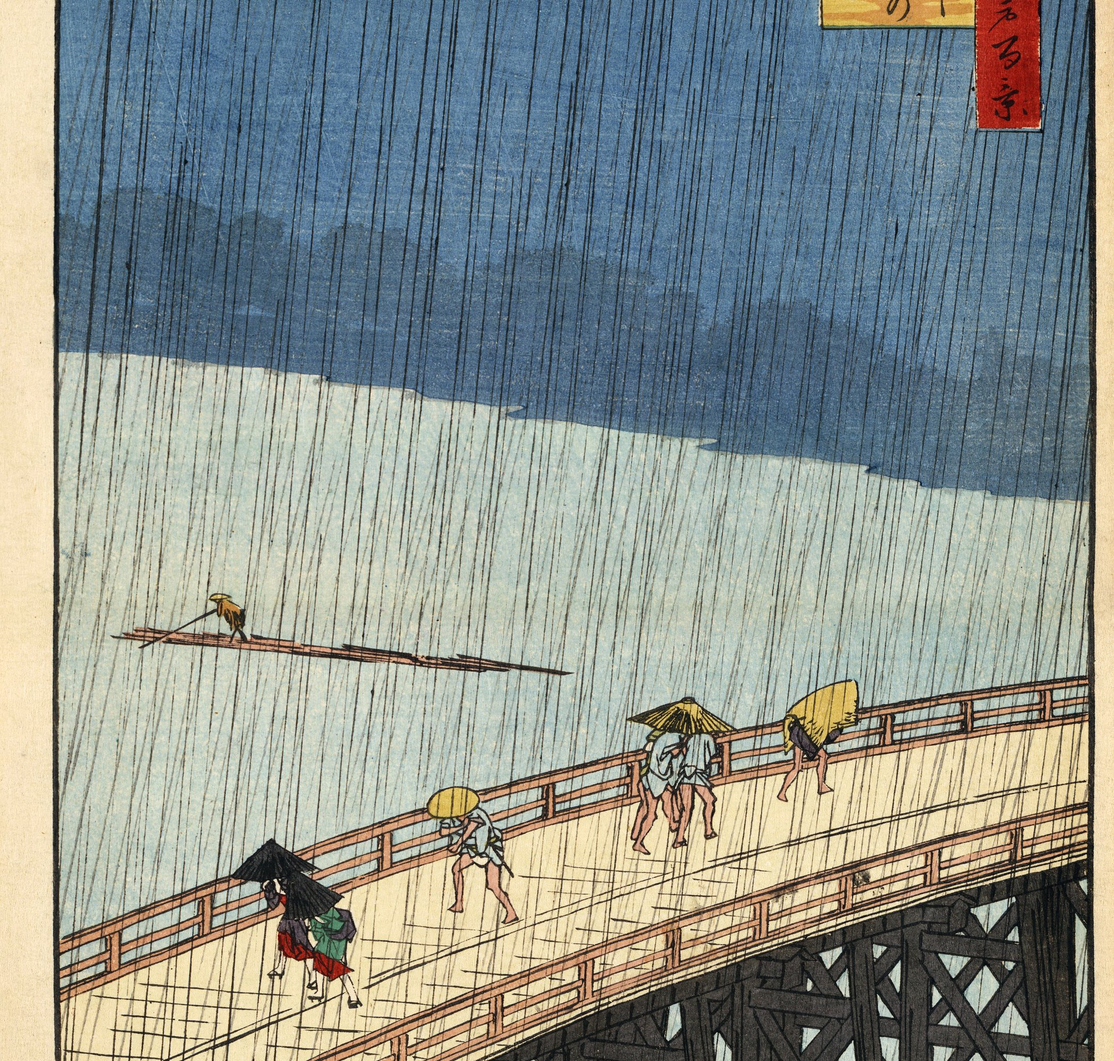
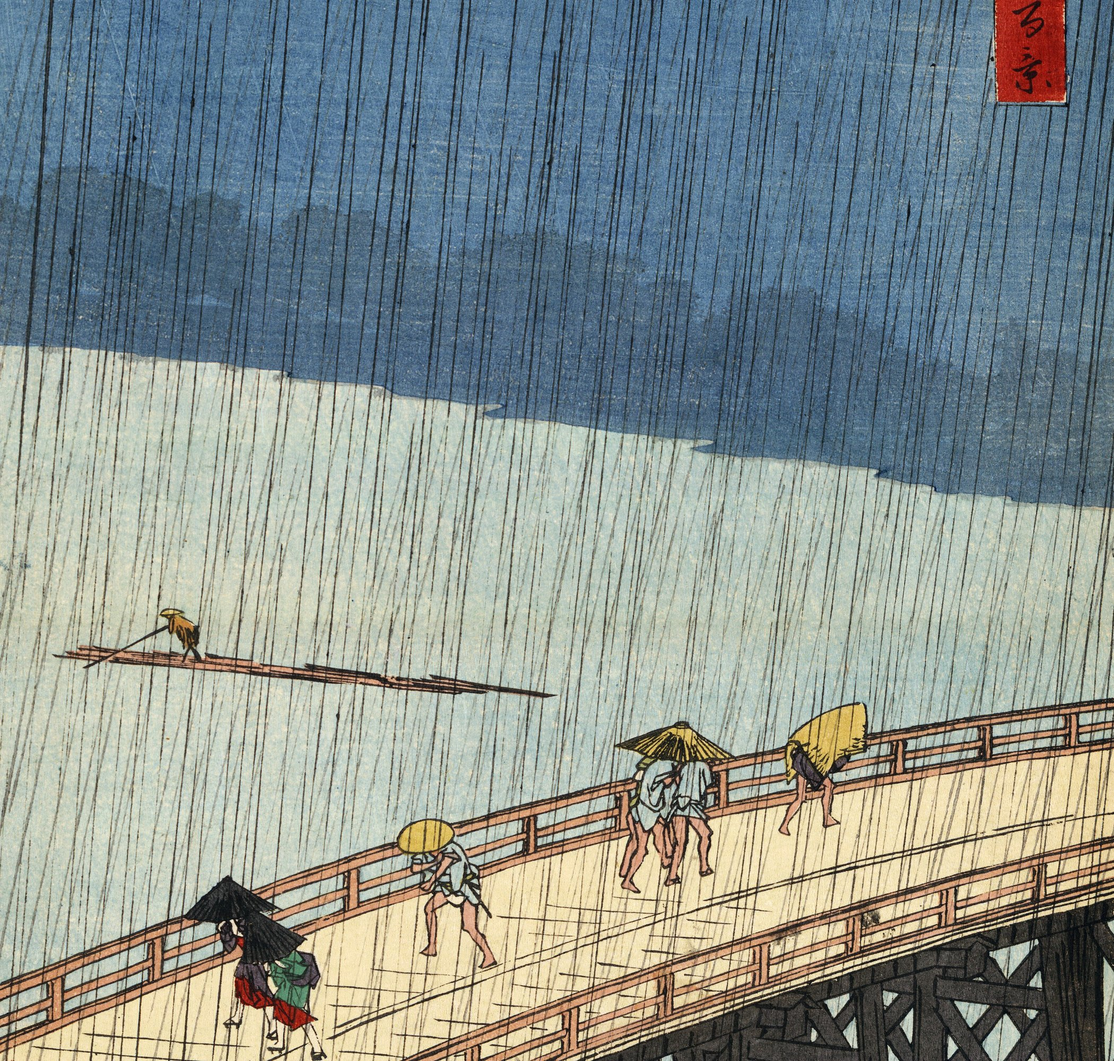
Voorkant Functies (2de graad): de prent van Hiroshige gecentreerd (feedback #11)
De papierrand met het kaderlijntje was links breder dan rechts. RAND snijdt nu aan beide
kanten de rand weg, zodat er geen lijntje meer langs de zijkanten loopt.

diff --git a/Ontwerp/omslagen/maak-omslagen.py b/Ontwerp/omslagen/maak-omslagen.py
@@ -75,7 +75,8 @@ SCHILDERIJEN = {
 # deel dat rondom wegvalt: Seurat schilderde een stippelrand mee, de andere foto's tonen de lijst of de stofrand.
 # Eén getal voor alle kanten, of (links, boven, rechts, onder): bij de zeilwagen vallen de titel en de witte rand weg.
 RAND = {"grande-jatte": 0.015, "broadway": 0.01, "aardbeiendief": 0.05, "ideale-stad": 0.03,
-        "zeilwagen": (0.01, 0.07, 0.01, 0.03), "goudweegster": (0.03, 0.01, 0.03, 0.01)}
+        "zeilwagen": (0.01, 0.07, 0.01, 0.03), "goudweegster": (0.03, 0.01, 0.03, 0.01),
+        "bui": (0.056, 0, 0.026, 0)}  # Hiroshige: de papierrand en het kaderlijntje, links breder dan rechts
 
 
 def haal(url):
